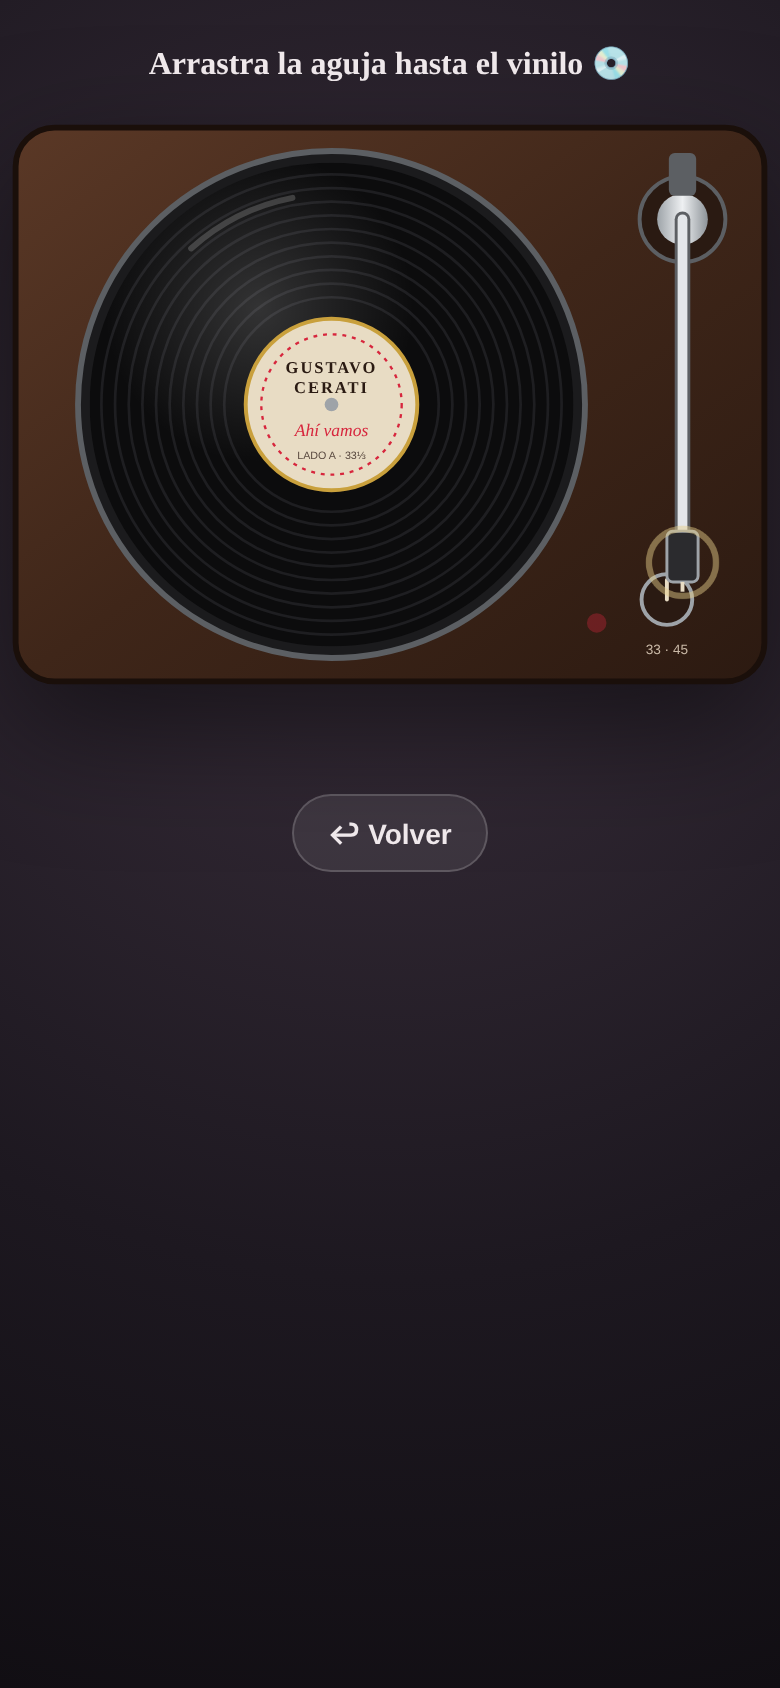
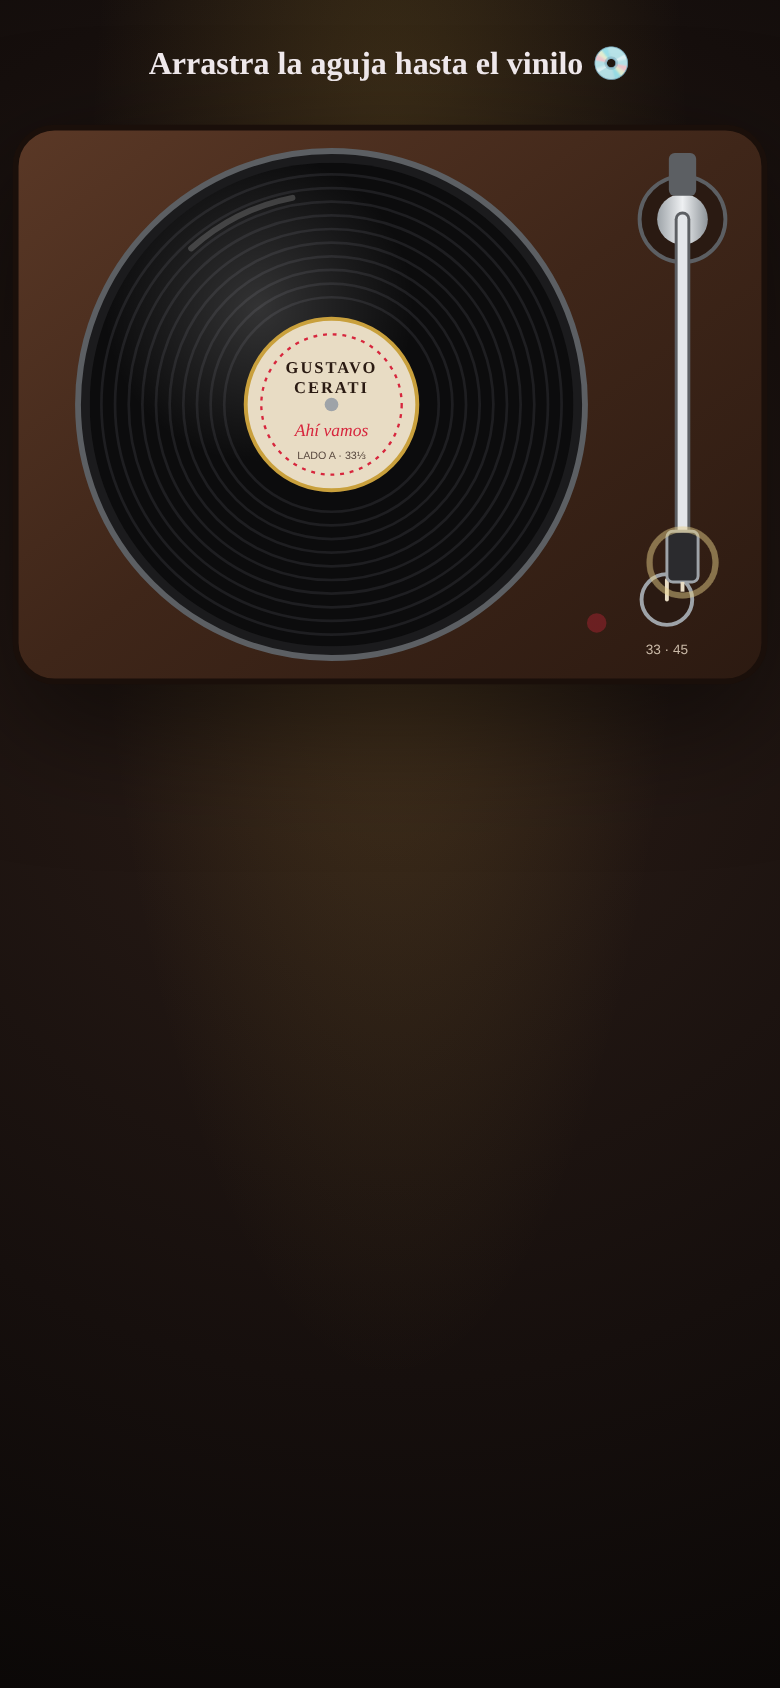
Escena secreta como algo nuevo: Cerati pequeño y sin cuadrícula
- Cerati pequeño, sin papel ni cuadrícula, al pie de la carta
- Se quita el botón Volver; todo lo anterior (dibujo, botones, No
  escapado, corazones) se desvanece y cambia el fondo de la página

Claude-Session: https://claude.ai/code/session_01LX1fnhepY3LFkpFUZsaEom

diff --git a/index.html b/index.html
@@ -395,7 +395,8 @@
   }
 
   #projectCard.vanish,
-  #replayBtn.vanish {
+  #replayBtn.vanish,
+  #noBtn.vanish {
     opacity: 0;
     transform: scale(.94);
     filter: blur(6px);
@@ -414,6 +415,8 @@
 
   /* ================== Escena secreta ================== */
   #secret {
+    position: relative;
+    z-index: 1;
     display: none;
     width: min(94vw, 640px);
     flex-direction: column;
@@ -546,19 +549,17 @@
     opacity: 1;
   }
 
+  /* Cerati pequeño, sin cuadrícula, sobre el papel de la carta */
   #ceratiWrap {
     display: none;
-    width: min(100%, 420px);
-    margin-top: 22px;
-    background: var(--paper);
-    box-shadow: 0 22px 34px rgba(0, 0, 0, .45);
+    width: 128px;
+    margin: 20px auto 0;
     -webkit-user-select: none;
     user-select: none;
   }
 
   #ceratiWrap.show {
     display: block;
-    animation: rise .9s ease both;
   }
 
   #ceratiSheet {
@@ -568,9 +569,10 @@
   }
 
   #songCaption {
-    margin: 14px 0 0;
-    color: #cdbfc6;
-    font-size: 14px;
+    margin: 8px 0 0;
+    color: #8c7f76;
+    font-size: 13px;
+    text-align: center;
     opacity: 0;
     transition: opacity 1s ease;
   }
@@ -579,16 +581,22 @@
     opacity: 1;
   }
 
-  #backBtn {
-    margin-top: 18px;
-    border: 1px solid rgba(255, 255, 255, .18);
-    border-radius: 999px;
-    padding: 10px 17px;
-    color: #f3ecef;
-    background: rgba(255, 255, 255, .08);
-    cursor: pointer;
-    font-size: 14px;
-    font-weight: 700;
+  /* Fondo nuevo para la escena secreta: todo lo anterior desaparece
+     y la página cambia de ambiente. */
+  #secretBg {
+    position: fixed;
+    inset: 0;
+    z-index: -2;
+    pointer-events: none;
+    background:
+      radial-gradient(ellipse at 50% 18%, rgba(201, 160, 60, .22) 0, rgba(201, 160, 60, 0) 55%),
+      radial-gradient(circle at 50% 40%, #2b1d17 0, #160f0d 65%, #0b0807 100%);
+    opacity: 0;
+    transition: opacity 1.4s ease;
+  }
+
+  body.secret-mode #secretBg {
+    opacity: 1;
   }
 
   @keyframes rise {
@@ -628,9 +636,6 @@
       padding: 22px 20px 24px;
     }
 
-    #ceratiWrap {
-      width: calc(100vw - 48px);
-    }
   }
 
   @media (prefers-reduced-motion: reduce) {
@@ -746,14 +751,14 @@
     <article id="letter" aria-live="polite">
       <h2>¡Descubriste el secreto! ❤</h2>
       <div id="letterText"></div>
+      <div id="ceratiWrap">
+        <canvas id="ceratiSheet" role="img" aria-label="Pixel art de Gustavo Cerati tocando una guitarra roja"></canvas>
+      </div>
+      <p id="songCaption">♪ Lago en el cielo · Gustavo Cerati</p>
     </article>
-
-    <div id="ceratiWrap">
-      <canvas id="ceratiSheet" role="img" aria-label="Pixel art de Gustavo Cerati tocando una guitarra roja"></canvas>
-    </div>
-    <p id="songCaption">♪ Lago en el cielo · Gustavo Cerati</p>
-    <button id="backBtn" type="button">↩ Volver</button>
   </section>
+
+  <div id="secretBg" aria-hidden="true"></div>
 
   <div class="music" id="music1" aria-hidden="true">
     <div class="musicHint">♫ Toca ▶ para escuchar nuestra canción</div>
@@ -947,8 +952,8 @@
   /* ================== Hoja cuadriculada con pixel art ==================
      Sirve tanto para la banda como para Cerati. */
 
-  function createSheet(canvas, sheetWrapper, art, orderCells) {
-    const ctx = canvas.getContext("2d", { alpha: false });
+  function createSheet(canvas, sheetWrapper, art, orderCells, { paper = true } = {}) {
+    const ctx = canvas.getContext("2d", { alpha: !paper });
     const rows = art.length;
     const cols = art[0].length;
 
@@ -977,6 +982,12 @@
 
       ctx.save();
       ctx.clearRect(0, 0, width, height);
+
+      /* Sin papel ni cuadrícula: solo el dibujo (Cerati). */
+      if (!paper) {
+        ctx.restore();
+        return;
+      }
 
       /* Papel cálido */
       ctx.fillStyle = "#f7f5ee";
@@ -1137,7 +1148,7 @@
   }
 
   const band = createSheet($("sheet"), wrapper, ART, orderBand);
-  const cerati = createSheet($("ceratiSheet"), $("ceratiWrap"), CERATI_ART, orderCerati);
+  const cerati = createSheet($("ceratiSheet"), $("ceratiWrap"), CERATI_ART, orderCerati, { paper: false });
 
   /* ================== Mensaje principal ================== */
 
@@ -1579,7 +1590,6 @@
   const letterText = $("letterText");
   const ceratiWrap = $("ceratiWrap");
   const songCaption = $("songCaption");
-  const backBtn = $("backBtn");
 
   const PIVOT = { x: 350, y: 55 };
   const ARM_PLAY = 28;      /* grados: la aguja queda sobre el vinilo */
@@ -1656,12 +1666,13 @@
       document.body.classList.remove("shake");
     }
 
-    projectCard.classList.add("vanish");
-    replayBtn.classList.add("vanish");
+    const oldScene = [projectCard, replayBtn, noBtn];
+    oldScene.forEach(el => el.classList.add("vanish"));
+    document.body.classList.add("secret-mode");
     await sleep(reduceMotion ? 0 : 900);
 
-    projectCard.style.display = "none";
-    replayBtn.style.display = "none";
+    oldScene.forEach(el => el.style.display = "none");
+    document.querySelectorAll(".floatHeart").forEach(el => el.remove());
     resetSecret();
     secret.classList.add("show");
     window.scrollTo({ top: 0 });
@@ -1803,19 +1814,6 @@
   });
 
   turntable.addEventListener("contextmenu", event => event.preventDefault());
-
-  backBtn.addEventListener("click", () => {
-    secretRun++;
-    lago.stop();
-    secret.classList.remove("visible", "show");
-    projectCard.style.display = "";
-    replayBtn.style.display = "";
-    projectCard.classList.remove("vanish");
-    replayBtn.classList.remove("vanish");
-    secretOpen = false;
-    window.scrollTo({ top: 0 });
-    band.resize();
-  });
 
   /* ================== Animación principal ================== */
 
